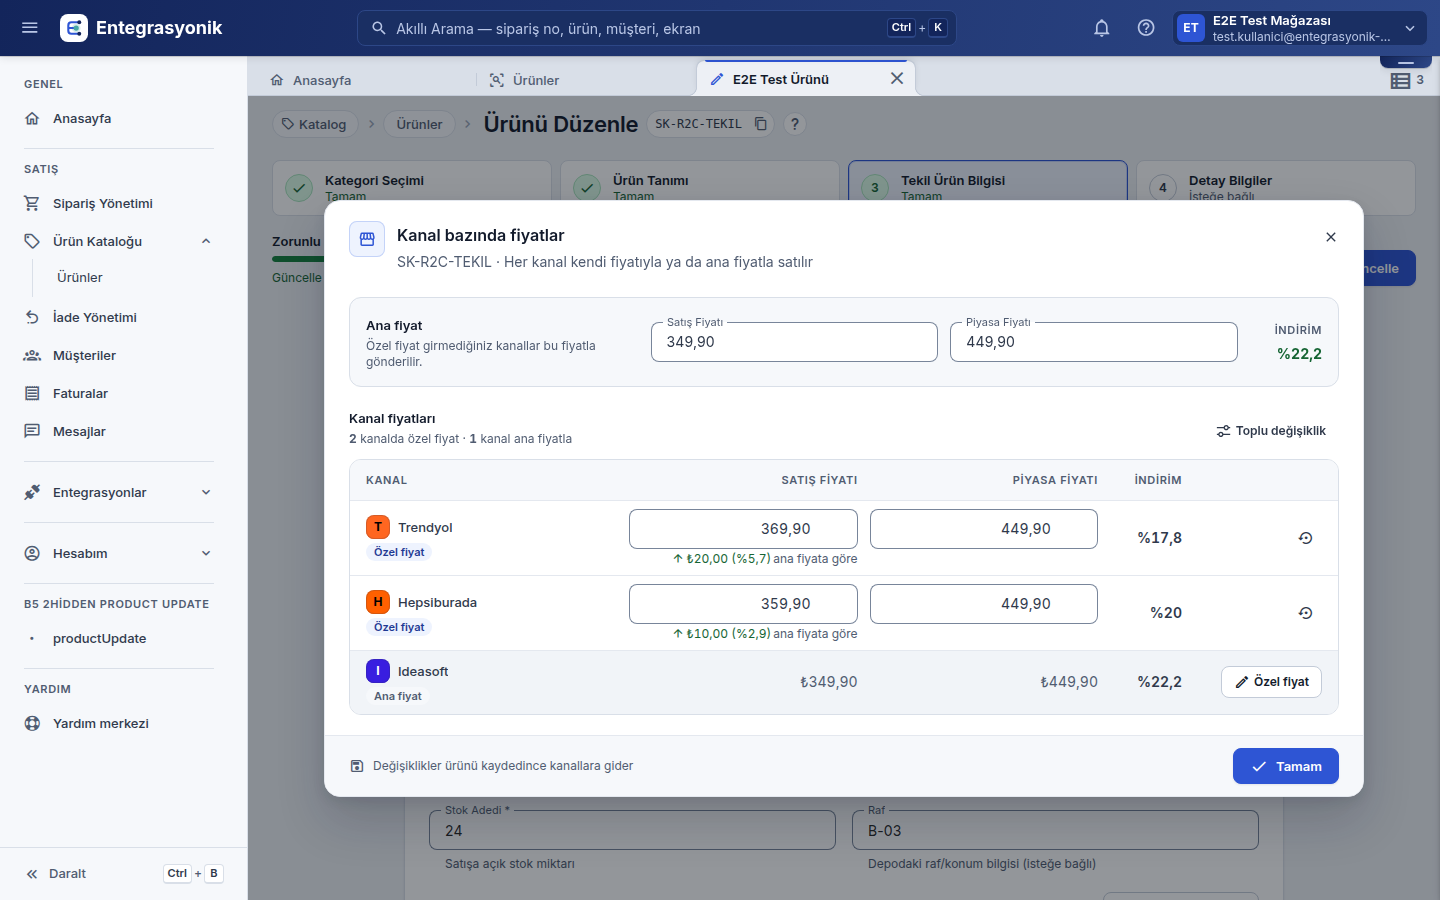
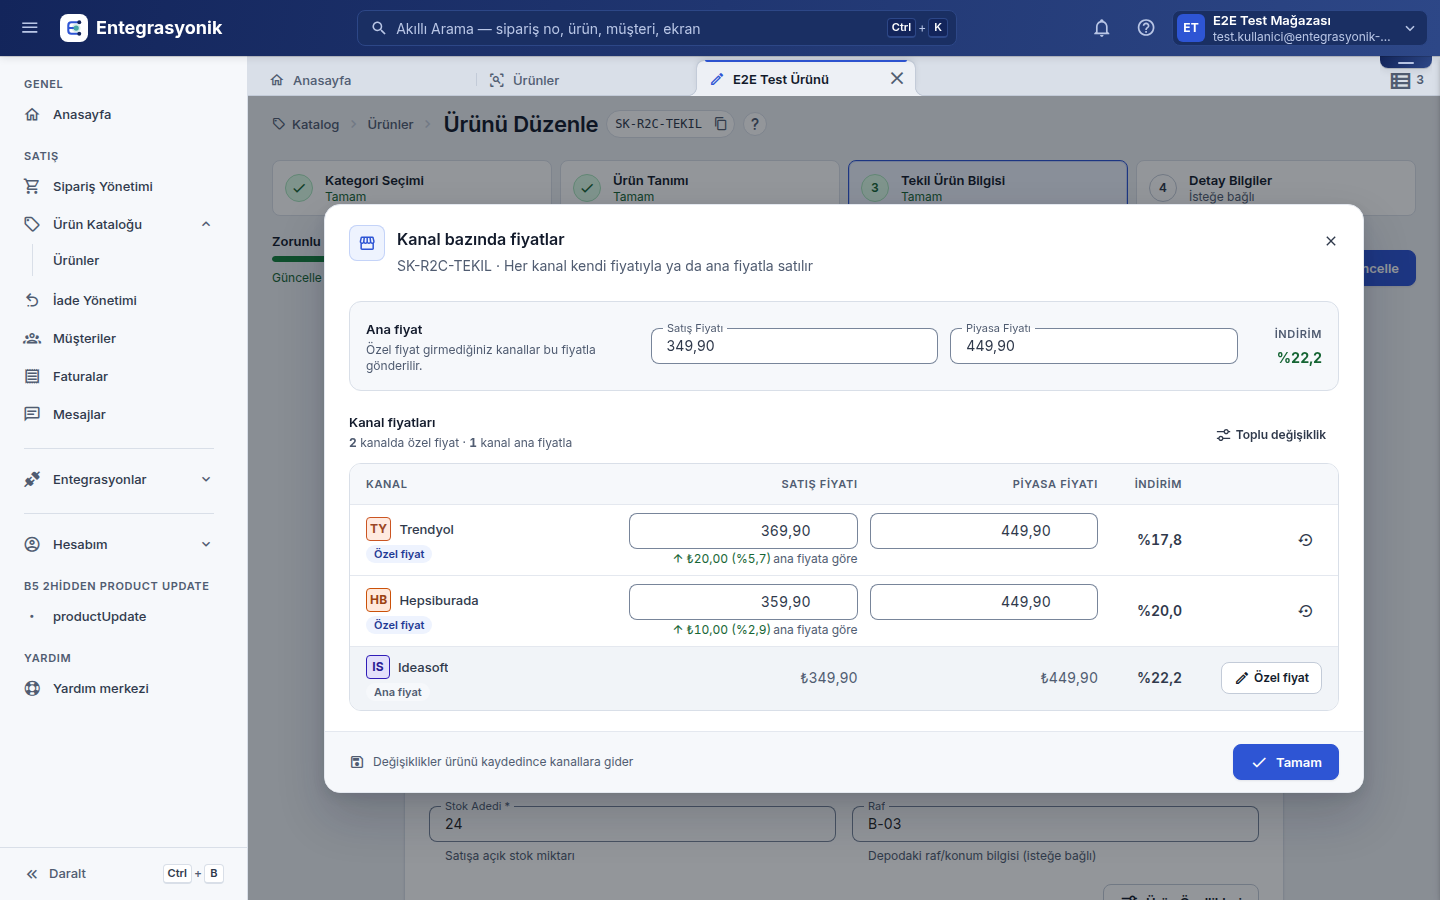
faz3-fe-r2c-cloud: birlesik halde (r2a+r2b) sonra goruntuleri, axe kontrolleri ve inceleme notu (kararlar, iterasyonlar, testler, backend eksikleri)
Claude-Session: https://claude.ai/code/session_01VwrkGhPS4fD6tpM3V71AA4

diff --git a/frontend/e2e/specs/product-form-r2c.spec.ts b/frontend/e2e/specs/product-form-r2c.spec.ts
@@ -136,6 +136,8 @@ test.describe('FR2-PFORM 27-28 — galeri', () => {
     const card = page.locator('.v-overlay--active').filter({ hasText: 'Resim Galerisi' }).first()
     const tile = card.locator('.pig-tile').nth(2)
     await expect(tile).toBeVisible()
+    const axe = await new AxeBuilder({ page }).include('.v-overlay--active:not(.v-snackbar)').withTags(AXE_TAGS).analyze()
+    expect(axe.violations.filter((v) => v.impact === 'critical' || v.impact === 'serious').map((v) => v.id)).toEqual([])
     await tile.scrollIntoViewIfNeeded()
     const box = (await tile.boundingBox())!
     const sx = box.x + box.width / 2
@@ -173,6 +175,8 @@ test.describe('FR2-PFORM 24/29 — varyant ızgarası görselleri', () => {
     expect(tb.width).toBeGreaterThanOrEqual(48)
     expect(tb.height).toBeGreaterThanOrEqual(48)
     await expect(thumb).toHaveAttribute('aria-label', /2 görsel/)
+    const axe = await new AxeBuilder({ page }).include('.vg').withTags(AXE_TAGS).analyze()
+    expect(axe.violations.filter((v) => v.impact === 'critical' || v.impact === 'serious').map((v) => v.id)).toEqual([])
   })
 })
 
@@ -198,7 +202,7 @@ test.describe('FR2-PFORM 25 — kanal bazında fiyatlar', () => {
     await dialog.locator('[data-cpe="custom-ideasoft"]').click()
     await expect(dialog.getByLabel('Ideasoft satış fiyatı')).toHaveValue('349,90')
     await dialog.locator('[data-cpe="reset-trendyol"]').click()
-    await expect(dialog.locator('[data-channel="trendyol"]')).toContainText('Ana fiyat')
+    await expect(dialog.locator('[data-cpe-row="trendyol"]')).toContainText('Ana fiyat')
 
     await dialog.locator('[data-cpe="bulk-toggle"]').click()
     await dialog.locator('[data-cpe="bulk-value"] input').fill('10')

diff --git a/frontend/src/components/productDefinitions/crud/PlatformPriceComponent.vue b/frontend/src/components/productDefinitions/crud/PlatformPriceComponent.vue
@@ -71,7 +71,7 @@
           <span role="columnheader"><span class="ek-sr-only">İşlem</span></span>
         </div>
 
-        <div v-for="row in rows" :key="row.code" class="cpe-tr" :class="{ 'is-custom': row.custom }" role="row" :data-channel="row.code">
+        <div v-for="row in rows" :key="row.code" class="cpe-tr" :class="{ 'is-custom': row.custom }" role="row" :data-cpe-row="row.code">
           <span class="cpe-ch" role="cell">
             <EkPlatformMark :name="row.title" :code="row.code" />
             <span class="cpe-src" :class="row.custom ? 'is-custom' : 'is-base'">{{ row.custom ? 'Özel fiyat' : 'Ana fiyat' }}</span>

diff --git a/frontend/docs/fe-r2c-review/README.md b/frontend/docs/fe-r2c-review/README.md
@@ -1,0 +1,67 @@
+# fe-r2c — Ürün formu (FR2-PFORM 23–29) inceleme notu
+
+Dal: `cloud/fe-r2c` (taban `origin/main`, sonda `cloud/fe-r2b` birleştirildi; r2b zaten `cloud/fe-r2a`'yı içeriyor).
+Kaynak: `docs/cloud-contracts/FE_FEEDBACK_R2_2026-09-30.md` madde 23–29. Görüntüler bu klasörde: `<durum>-{before|after}-{1440|390}.png`
+(`e2e/specs/fe-r2c-review.spec.ts`, `R2C_REVIEW=before|after`; sentetik veri `e2e/fixtures/productFormR2c.ts`).
+"after" görüntüleri birleştirilmiş (r2a kabuk + r2b rozet) hâlden alındı.
+
+## Kararlar
+
+| Madde | Sorun (kök neden) | Karar |
+|---|---|---|
+| 23 combobox "yeni ekle" | Ekleme kutusu `v-autocomplete` menüsündeydi; Vuetify menüde basılan her yazdırılabilir tuşu arama kutusuna geri yönlendirir (`VAutocomplete onListKeydown`) → kutuya **yazılamıyordu**. Ayrıca istek beklenmiyor, yeni kayıt seçilmiyor, hata yutuluyordu. Seçili kayıt önceden süzülen listeden düşünce kutuda ham kimlik (`brand-e2e-1`) görünüyordu | Menüde metin kutusu yok: listenin altında öneri satırı (**"“Kuzey Tekstil” adıyla yeni marka ekle"**), Enter (eşleşme yoksa) ya da tıklama → kısa form diyaloğu (`QuickCreateDialog`, `EkFormDialog`). Ad arama metniyle dolu, yineleme denetimi (tr harf duyarsız, "Onu seç"), istek beklenir, liste yenilenir, yeni kayıt **seçili gelir**, tost. Hata diyalogda kalır ("Marka eklenemedi — bağlantınızı kontrol edip tekrar deneyin", 403 → yetki). Kategoride üst kategori seçimi; ürün formunun kademeli seçicisine "“X” altına kategori ekle" (açık klasör) + boş ağaçta "Kategori ekle". Filtre Vuetify'a bırakıldı (`custom-filter`, tr), odakta mevcut ad seçili gelir (yazılan ada eklenmez) |
+| 24/29 varyant görselleri + tablo | 36px küçük resim, seçenek çipleri sarıyor, stok kodu kırpılıyordu | Satır 56 → 72px, küçük resim **56px** (galeriyle aynı `GalleryThumb`, `contain`), görselsiz varyant "Ekle" kutusu; "Seçenekler" sütunu kaldırıldı → stok kodunun altında tek satır ("Beden: M · …"), 1440'ta tablo yatay kaymadan sığar. Başlık/hücre dili uygulama tablolarıyla aynı (micro büyük harf başlık, kalem + kırmızı çöp eylemleri). Galeri "Varyantlar" sekmesinde küçük resimler 44 → 60px (alt satır 32 → 44) |
+| 25 kanal fiyatı | Her kanal katlanır kutu; "Toplu Fiyat Atama" açılır menülü; fiyatı olmayan kanal "Fiyat yok" deniyordu — oysa backend (`trendyol/ProductTransformer`: `platforms[kod]?.prices \|\| variant.prices`) o kanala **ana fiyatı** gönderir | Yeni yapı: **Ana fiyat** kartı (düzenlenebilir, indirim %) → **Kanal tablosu** (rozet · Özel fiyat/Ana fiyat · satış · piyasa · indirim · ana fiyata göre fark; "Özel fiyat" ana fiyattan kopyalar, "Ana fiyata dön") → **Toplu değişiklik** (satış/piyasa · ata / % artır-azalt / tutar ekle-düş · önizleme cümlesi "3 kanalda satış fiyatı %10 artar (ör. Trendyol: ₺369,90 → ₺406,89). 1 kanal ana fiyattan özel fiyata geçer."). Kurallar satırda: satış > 0 (hata), satış ≤ piyasa (uyarı). Tekil ürün formunda kanal başına etkin fiyat özeti; ızgaradaki aralık ana fiyatlı kanalları da sayar. Model aynı; mantık `variants/channelPriceModel.ts` |
+| 26 inline edit | Hücre içinde ikinci bir çerçeveli kutu, hata yalnız ikon | Hücre = düzenleme alanı (kutu içinde kutu yok): 2px aksiyon halkası + hafif gölge, çerçevesiz giriş, hata metni hücrede (`role=alert`), üzerine gelince düzenlenebilir ipucu (ton + metin imleci). Klavye/yapıştır/geri al davranışı aynı |
+| 27 galeri | 148px kutular, hangi görsel olduğu belirsiz, sıralama tutamağı yalnız üzerine gelince | Kutular 184px; her kutuda altyazı: **sıra ("Kapak" / "3. görsel") · dosya adı** (kapakta çözünürlük); tutamak her zaman görünür; başlık "6 görsel · ürün sayfasında ve kanallarda bu sırayla gösterilir; 1. görsel kapaktır", ipucu "Sırayı değiştirmek için görseli sürükleyin ya da ⋯ menüsünden taşıyın". Formdaki galeri kutusu: kapak + sıradaki 3 görsel + "+N" + "Galeriyi düzenle". Sıralama düzenleme ekranında (`ProductUpdateView`) sürükle-bırak + klavye + menüyle çalışır (`sortImages`, e2e ile doğrulandı) |
+| 28 sürükleme hayaleti | SortableJS `forceFallback` kopyası kapta `position:fixed`; diyalog kabının `transform`'u kapsayıcı bloğu değiştirdiği için kopya imleçten diyalog ofseti kadar uzakta çiziliyordu (`gallery-drag-before-1440.png`) | `fallbackOnBody: true` — kopya body'de, imlecin altında (`gallery-drag-after-1440.png`); e2e imlecin kopyanın içinde kaldığını ölçer |
+
+Ortak standartlar (`frontend/docs/FR2_PATTERNS.md`): yeni alanlara yükseklik/yoğunluk verilmedi, yükseklik `--ek-control-h-field`;
+kanal rozeti r2b'nin `EkPlatformMark` → `EkChannelBadge` kısa formu üzerinden gelir; r2b'nin liste dosyalarına dokunulmadı.
+Yeni ortak paket bileşeni gerekmedi (QuickCreate* uygulamaya özgü: store/i18n bağımlı → `src/components/common`).
+
+## İterasyonlar
+
+1. **Önce** görüntüler (1440+390) → sorunlar yukarıdaki "kök neden" sütunu.
+2. **Uygula 1** → eleştiri: combobox'ta seçili adın sonuna yazılıyordu ("E2E Marka BirYeni Marka") → odakta ad seçili gelir (mouseup
+   korumalı). Varyant ızgarasında "Seçenekler" sütunu 1440'ta ~0px'e eziliyordu → sütun kaldırılıp kodun altına alındı. Galeri
+   altyazısında çözünürlük adı kırpıyordu → yalnız kapakta. Kanal tablosunda tekrar eden kayan etiketler ve boş etiket boşluğu →
+   sütun başlığı + `aria-label`; satırlar hizasızdı → boş altyazı yer tutucu.
+3. **Uygula 2** (390) → kanal tablosu satırı sıkışıyordu (kanal adı kırpık, satış/piyasa ayırt edilemiyordu) → mobilde alan
+   düzeni (kanal+eylem / satış·piyasa etiketli / indirim). Galeri varyant sekmesi görselleri büyütüldü.
+4. **Birleşik** (r2a+r2b) → rozet `data-channel` ile satır özniteliği çakıştı (e2e) → satır `data-cpe-row`; tüm "after" yeniden alındı.
+
+## Testler (son koşu, birleşik hâl)
+
+| Kontrol | Sonuç |
+|---|---|
+| `npm test` (vitest tam) | 71 dosya / 1430 test geçti (yeni: `r2c-quick-create`, `r2c-channel-price-model`) |
+| `vue-tsc` (typecheck ratchet) | 0 hata |
+| style / pattern / no-console ratchet | OK |
+| `npm run build` | başarılı |
+| Playwright `product-form-r2c` (desktop 1280 + mobile 375) | 7/7 + 7/7: yeni marka (akış, yineleme, 500 hatası), kategori (kademeli seçici, üst kategori gövdesi), galeri sürükleme hayaleti + `sortImages` gövdesi, varyant küçük resmi ≥ 48px, kanal fiyatı (özel/ana/toplu + **kayıt gövdesi**) |
+| axe (WCAG 2.1 AA, critical/serious = 0) | yeni marka diyaloğu, kanal fiyatları diyaloğu, galeri, varyant ızgarası |
+| `product-definition-parts` | geçti (galeri tıklaması `data-pf-field` ile; linux tabanı `--update-snapshots=missing` ile yazıldı, commit'lenmedi) |
+
+**Bilinen (bu işten önce de kırmızı, `origin/main` üzerinde aynı koşuyla doğrulandı):** `product-variants.spec.ts` ve
+`product-variant-dialogs.spec.ts` A6a ızgara yeniden yazımından önceki DOM'u bekliyor ("Grup" başlığı, `thead` içinde
+`.mdi-menu` işlem menüsü, satır içi Stok Kodu/Barkod formu) → 16 test zaman aşımı/bulunamadı; `product-definitions.spec.ts`
+smoke da tabanda kırmızı. Bu dosyalar A6a sonrası güncellenmeli (bu işte yalnız diyalog başlığı metni güncellendi).
+Görsel tabanlar (`*-win32.png`) yerelde yenilenmeli: `product-variant-dialogs` (kanal fiyatı), `product-definition-parts`
+(galeri, tekil ürün), `product-variants`.
+
+## Backend'e iletilecek eksikler
+
+1. **Aynı adlı marka/kategori:** `BrandService/addBrand` ve `CategoryService/addCategory` yineleme denetimi yapmıyor (şemada
+   `unique` yok); önyüz tr-harf-duyarsız denetliyor ama eşzamanlı iki istemcide çift kayıt açılabilir. Öneri: tenant içi
+   `title` (katlanmış) için tekil indeks + 409 `DUPLICATE_TITLE` (önyüz 409'u zaten "Bu adla bir … zaten var" diye gösteriyor).
+2. **`addBrand`/`addCategory` yanıtı yalnız `{ _id }`**: önyüz yeni kaydı görmek için tüm listeyi yeniden çekiyor. Öneri: oluşan
+   belgeyi (`_id, title, parentId`) döndürmek.
+3. **`CategoryService.get` şekli:** ana kökü çocuksuz ilk öğe + ana seviye kategorileri kardeş olarak döndürüyor (e2e fixture'ı
+   ise ana kökün `children`'ı olarak kurguluyor). Önyüz iki şekli de karşılıyor; sözleşme tek şekle indirilmeli ve belgelenmeli.
+4. **Ürün eklenmiş yaprağın altına kategori eklemek** o yaprağı klasöre çevirir (ürünler klasörde kalır). Backend uyarı/engel yok;
+   önyüz şimdilik yalnız "… altına eklenir" ipucu veriyor. Karar gerekirse: `addCategory` üst kategoride ürün varsa 409 ya da uyarı alanı.
+5. **Kanal fiyatı kuralları:** "satış ≤ piyasa" ve "satış > 0" önyüzde uyarı olarak gösteriliyor; kanal başına kesin kural (ör.
+   Trendyol) backend hata kodu → mesaj eşlemesinden gelmeli (premium-ui-standards "hata eşleme tablosu backend'den").
+6. **Görsel adı:** adsız yüklemede `confirmUpload` `originalname` yerine `uploadId` yazıyor; galeri bunu gizleyip "Görsel n"
+   gösteriyor. Öneri: yükleme biletinde istemci dosya adını zorunlu göndermek ya da `originalname` boş kalmak.
